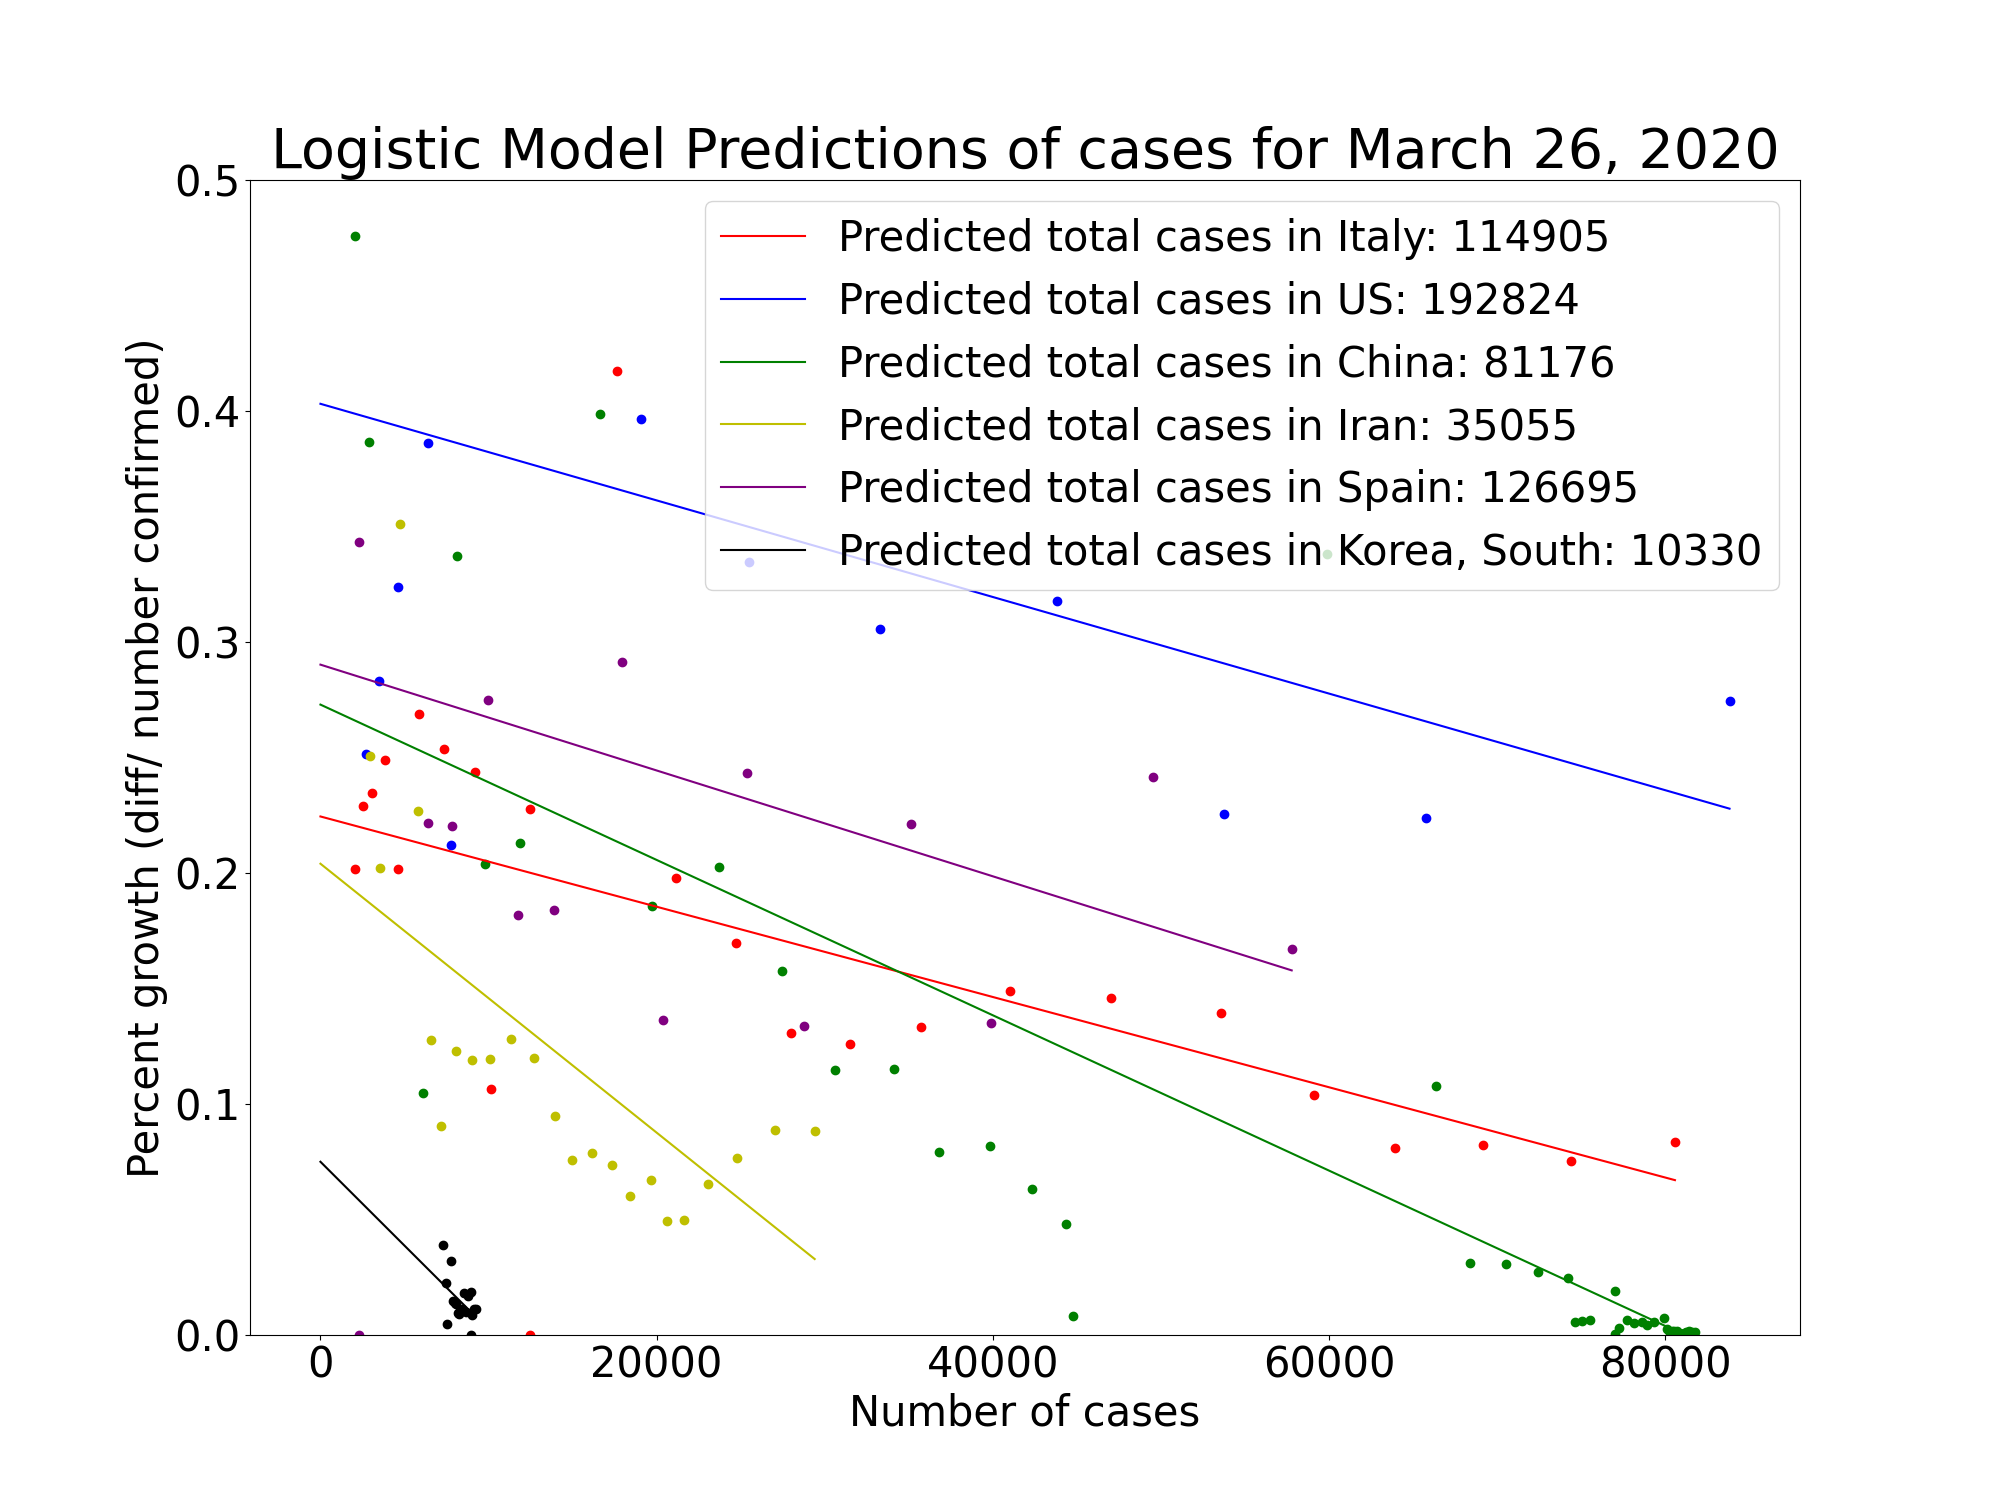
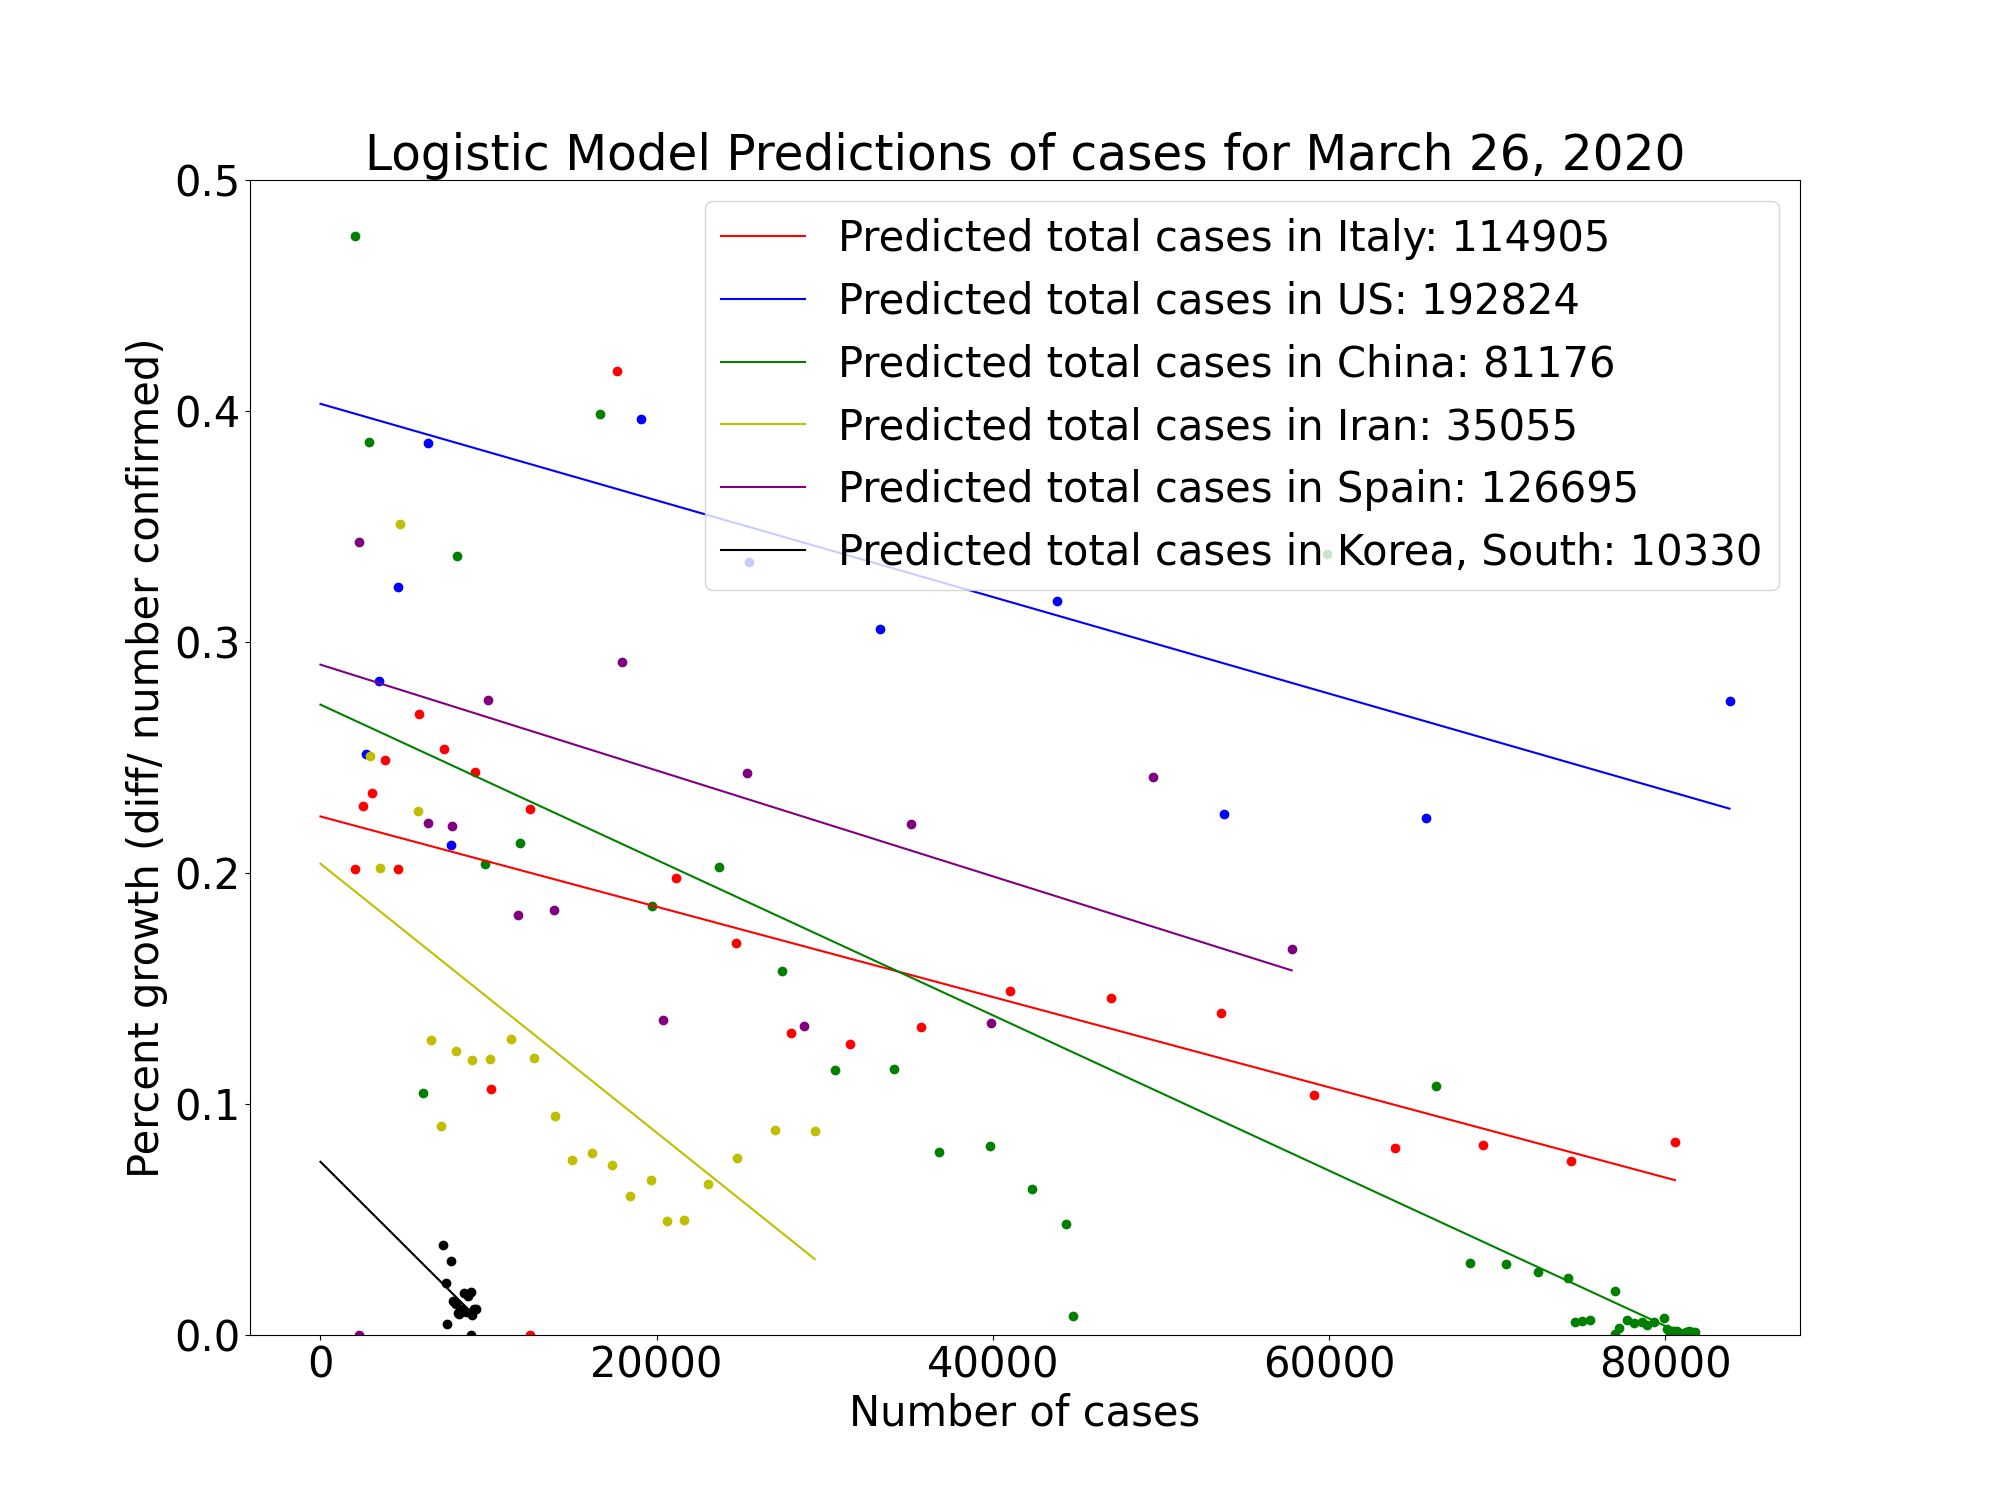
auto update

Changed region(s): [[0.124, 0.0613, 0.899, 0.1227]]

diff --git a/update_plots.py b/update_plots.py
@@ -59,5 +59,5 @@ for data_type in ('cases', 'deaths'):
     plt.grid()
     plt.ylim([0, .5])
   plt.legend(legends)
-  plt.title('Logistic Model Predictions of %s for %s' % (data_type, today), fontsize=40)
+  plt.title('Logistic Model Predictions of %s for %s' % (data_type, today), fontsize=35)
   plt.savefig('%s.png' % data_type)
